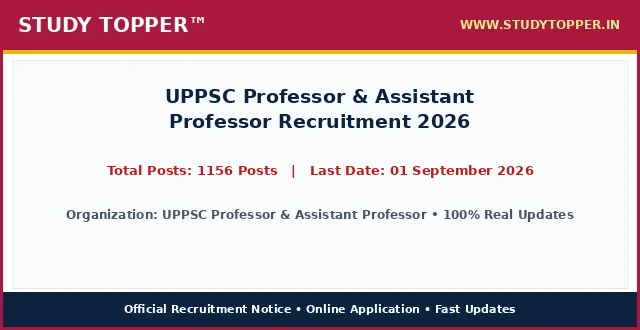
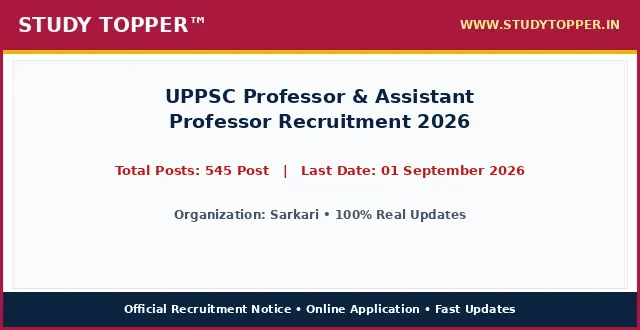
chore(lifecycle): daily auto-sort vacancies and update active dates

Changed region(s): [[0.1562, 0.4848, 0.8438, 0.5455], [0.0938, 0.6364, 0.9062, 0.6667]]

diff --git a/pages/uppsc-professor-2026.html b/pages/uppsc-professor-2026.html
@@ -987,12 +987,12 @@ ul.wp-block-latest-posts a:hover {
 <main class="site-main" id="main">
 <div class="gb-container gb-container-b39c368c">
 <h1 class="gb-headline gb-headline-e52a0102 gb-headline-text" style="font-size: 22px; font-weight: 700; color: #0000cd; text-align: left; margin: 8px 0 4px 0; line-height: 1.3; width: 100%; font-family: '-apple-system, BlinkMacSystemFont, 'Segoe UI', Roboto, 'Helvetica Neue', Arial, sans-serif', Times, serif, Hind, sans-serif;">UPPSC Professor & Assistant Professor Recruitment 2026</h1>
-<div class="gb-container gb-container-659bd175"><p style="color: #cd0808; font-weight: 700; font-size: 15px; margin: 2px 0 7px 0; text-align: left; font-family: '-apple-system, BlinkMacSystemFont, 'Segoe UI', Roboto, 'Helvetica Neue', Arial, sans-serif', Times, serif, Hind, sans-serif;">Post Date: August 21, 2026 07:48 PM</p></div>
-<p class="gb-headline gb-headline-550ae316 short_Details gb-headline-text" style="width: 100%; max-width: 100%; font-size: 16.8px; line-height: 1.55; color: #000000; text-align: justify; text-justify: inter-word; margin: 8px 0 14px 0; display: block; font-family: '-apple-system, BlinkMacSystemFont, 'Segoe UI', Roboto, 'Helvetica Neue', Arial, sans-serif', Times, serif, Hind, sans-serif;"><strong style="color: #0000cd;">UPPSC Professor & Assistant Professor</strong> has officially published the recruitment notice <strong style="color: #cd0808;">UPPSC Professor & Assistant Professor Recruitment 2026</strong> under notification number Official Advt 2026. Online applications are invited for 1156 Posts across multiple departments and cadre positions. Interested candidates possessing the requisite educational qualifications and falling between 35 Years to 55 Years can complete their online registration before the application deadline of 01 September 2026. Applicants should read the eligibility criteria, category reservation rules, and exam scheme thoroughly before submitting applications.</p>
+<div class="gb-container gb-container-659bd175"><p style="color: #cd0808; font-weight: 700; font-size: 15px; margin: 2px 0 7px 0; text-align: left; font-family: '-apple-system, BlinkMacSystemFont, 'Segoe UI', Roboto, 'Helvetica Neue', Arial, sans-serif', Times, serif, Hind, sans-serif;">Post Date: August 22, 2026 11:29 AM</p></div>
+<p class="gb-headline gb-headline-550ae316 short_Details gb-headline-text" style="width: 100%; max-width: 100%; font-size: 16.8px; line-height: 1.55; color: #000000; text-align: justify; text-justify: inter-word; margin: 8px 0 14px 0; display: block; font-family: '-apple-system, BlinkMacSystemFont, 'Segoe UI', Roboto, 'Helvetica Neue', Arial, sans-serif', Times, serif, Hind, sans-serif;"><strong style="color: #0000cd;">Sarkari</strong> has officially published the recruitment notice <strong style="color: #cd0808;">UPPSC Professor & Assistant Professor Recruitment 2026</strong> under notification number Official Advt 2026. Online applications are invited for 545 Post across multiple departments and cadre positions. Interested candidates possessing the requisite educational qualifications and falling between 18 Years to 40 Years can complete their online registration before the application deadline of 01 September 2026. Applicants should read the eligibility criteria, category reservation rules, and exam scheme thoroughly before submitting applications.</p>
 <div class="gb-container gb-container-9849916c"><div class="social-buttons-compact" style="display: flex; justify-content: flex-start; align-items: center; gap: 10px; margin: 10px 0 16px 0; width: 100%;"><a class="social-btn-compact wa" href="https://whatsapp.com/channel/0029Va9xyz" rel="noopener" style="background-color: #00d084; color: #ffffff; padding: 10px 18px; border-radius: 4px; text-decoration: none; font-weight: bold; font-size: 15.5px; display: inline-flex; align-items: center; justify-content: center; height: auto;" target="_blank">WhatsApp</a><a class="social-btn-compact tg" href="https://t.me/studytopperofficial" rel="noopener" style="background-color: #0088cc; color: #ffffff; padding: 10px 18px; border-radius: 4px; text-decoration: none; font-weight: bold; font-size: 15.5px; display: inline-flex; align-items: center; justify-content: center; height: auto;" target="_blank">Telegram</a></div></div>
 <div class="gb-container gb-container-f58e6ca1" style="border: 2px solid #5b032f; border-radius: 4px; overflow: hidden; margin: 15px 0 20px 0; background-color: #ffffff; width: 100%; box-sizing: border-box;">
 <h2 class="gb-headline gb-headline-2ca5a791 gb-headline-text" style="font-size: 16px; font-weight: 700; text-align: center; color: #ef0303; line-height: 1.3; padding: 6px 4px; margin: 0; background: #ffffff; font-family: '-apple-system, BlinkMacSystemFont, 'Segoe UI', Roboto, 'Helvetica Neue', Arial, sans-serif', Times, serif, Hind, sans-serif;">UPPSC Professor & Assistant Professor Recruitment 2026 &ndash; Latest Details &amp; Updates</h2>
-<h3 class="gb-headline gb-headline-7d5f86e8 gb-headline-text" style="font-size: 16px; font-weight: 600; text-align: center; color: #009703; line-height: 1.25; margin: 0; padding: 2px 4px 6px 4px; background: #ffffff; font-family: '-apple-system, BlinkMacSystemFont, 'Segoe UI', Roboto, 'Helvetica Neue', Arial, sans-serif', Times, serif, Hind, sans-serif;">UPPSC Professor & Assistant Professor : Details &amp; Summary</h3>
+<h3 class="gb-headline gb-headline-7d5f86e8 gb-headline-text" style="font-size: 16px; font-weight: 600; text-align: center; color: #009703; line-height: 1.25; margin: 0; padding: 2px 4px 6px 4px; background: #ffffff; font-family: '-apple-system, BlinkMacSystemFont, 'Segoe UI', Roboto, 'Helvetica Neue', Arial, sans-serif', Times, serif, Hind, sans-serif;">Sarkari : Details &amp; Summary</h3>
 <p class="gb-headline gb-headline-79adf169 gb-headline-text" style="margin: 0 0 6px 0; font-family: '-apple-system, BlinkMacSystemFont, 'Segoe UI', Roboto, 'Helvetica Neue', Arial, sans-serif', Times, serif, Hind, sans-serif; text-align: center; font-size: 18px; font-weight: 700;"><a href="/" style="color: #0000ff; text-decoration: underline;">StudyTopper.in</a></p>
 
 <style id="st-post-boxes-responsive-css">
@@ -1025,7 +1025,7 @@ ul.wp-block-latest-posts a:hover {
     <div style="background-color: #5b032f; color: #ffffff; padding: 8px 10px; font-size: 20px; font-weight: 700; text-align: center; font-family: '-apple-system, BlinkMacSystemFont, 'Segoe UI', Roboto, 'Helvetica Neue', Arial, sans-serif', Times, serif, Hind, sans-serif;">Important Dates</div>
     <div style="padding: 12px 14px; background-color: #ffffff;">
       <ul style="padding-left: 20px; margin: 0; list-style-type: disc; text-align: left; font-size: 14pt; line-height: 1.6; font-family: '-apple-system, BlinkMacSystemFont, 'Segoe UI', Roboto, 'Helvetica Neue', Arial, sans-serif', Times, serif, Hind, sans-serif;">
-        <li><span style="font-size: 14pt;">Online Apply Start Date : <strong>18 August 2026</strong></span></li><li><span style="font-size: 14pt;">Online Apply Last Date : <span style="color: #ff0000;"><strong>01 September 2026</strong></span></span></li><li><span style="font-size: 14pt;">Last Date For Fee Payment : <span style="color: #ff0000;"><strong>01 September 2026</strong></span></span></li><li><span style="font-size: 14pt;">Correction Last Date : <span style="color: #ff0000;"><strong>08 September 2026</strong></span></span></li><li><span style="font-size: 14pt;">Pre Exam Date : <strong>Notify Later</strong></span></li><li><span style="font-size: 14pt;">Admit Card : <strong>Before Exam</strong></span></li><li><span style="font-size: 14pt;">Result Date : <strong>Will be Updated Here Soon</strong></span></li>
+        
       </ul>
     </div>
   </div>
@@ -1034,7 +1034,7 @@ ul.wp-block-latest-posts a:hover {
     <div style="background-color: #5b032f; color: #ffffff; padding: 8px 10px; font-size: 20px; font-weight: 700; text-align: center; font-family: '-apple-system, BlinkMacSystemFont, 'Segoe UI', Roboto, 'Helvetica Neue', Arial, sans-serif', Times, serif, Hind, sans-serif;">Application Fee</div>
     <div style="padding: 12px 14px; background-color: #ffffff;">
       <ul style="padding-left: 20px; margin: 0; list-style-type: disc; text-align: left; font-size: 14pt; line-height: 1.6; font-family: '-apple-system, BlinkMacSystemFont, 'Segoe UI', Roboto, 'Helvetica Neue', Arial, sans-serif', Times, serif, Hind, sans-serif;">
-        <li><span style="font-size: 14pt;">For General / OBC / EWS : <strong>₹ 105/-</strong></span></li><li><span style="font-size: 14pt;">For SC / ST : <strong>₹ 65/-</strong></span></li><li><span style="font-size: 14pt;">For PH : <strong>₹ 25/-</strong></span></li><li><span style="font-size: 14pt;">Payment Mode (Online) : <strong>You can make the payment using the following methods: Debit Card Credit Card Internet Banking IMPS Cash Card / Mobile Wallet</strong></span></li><li><span style="font-size: 14pt;">Candidates must have a Master’s Degree (MD/MS/DNB) in the relevant medical specialty. Post : <strong>wise experience requirements are given in the official notification.</strong></span></li>
+        <li><span style="font-size: 14pt;">Bihar Police BPSSC Sub Inspector SI Prohibition Result 2026 Advt. No. : <strong>03/2026</strong></span></li><li><span style="font-size: 14pt;">UP Scholarship Online Form 2026 : <strong>2027</strong></span></li>
       </ul>
       <div style="margin-top: 10px; font-size: 14pt; line-height: 1.5; color: #000000; border-top: 1px dashed #ccc; padding-top: 8px; font-family: '-apple-system, BlinkMacSystemFont, 'Segoe UI', Roboto, 'Helvetica Neue', Arial, sans-serif', Times, serif, Hind, sans-serif;">
         <strong>Mode of Payment / Access:</strong> Online via Net Banking, Debit Card, Credit Card, UPI or Free Candidate Portal.
@@ -1047,10 +1047,10 @@ ul.wp-block-latest-posts a:hover {
 <div class="st-grid-row" style="display: flex; flex-wrap: wrap; width: 100%; border-top: 2px solid #5b032f; margin: 0; padding: 0; box-sizing: border-box;">
   <!-- Left Col: Age Limits -->
   <div class="st-col-half st-col-border-right" style="box-sizing: border-box; vertical-align: top;">
-    <div style="background-color: #046132; color: #ffffff; padding: 8px 10px; font-size: 17px; font-weight: 700; text-align: center; font-family: '-apple-system, BlinkMacSystemFont, 'Segoe UI', Roboto, 'Helvetica Neue', Arial, sans-serif', Times, serif, Hind, sans-serif;">UPPSC Professor & Assistant Professor : Age Limits As On 01 August 2026</div>
+    <div style="background-color: #046132; color: #ffffff; padding: 8px 10px; font-size: 17px; font-weight: 700; text-align: center; font-family: '-apple-system, BlinkMacSystemFont, 'Segoe UI', Roboto, 'Helvetica Neue', Arial, sans-serif', Times, serif, Hind, sans-serif;">Sarkari : Age Limits As On 01 August 2026</div>
     <div style="padding: 12px 14px; background-color: #ffffff;">
       <ul style="padding-left: 20px; margin: 0; list-style-type: disc; text-align: left; font-size: 14pt; line-height: 1.6; font-family: '-apple-system, BlinkMacSystemFont, 'Segoe UI', Roboto, 'Helvetica Neue', Arial, sans-serif', Times, serif, Hind, sans-serif;">
-        <li><span style="font-size: 14pt;">Minimum Age : <strong>35 Years</strong></span></li><li><span style="font-size: 14pt;">Maximum Age : <strong>55 Years</strong></span></li>
+        
       </ul>
     </div>
   </div>
@@ -1058,7 +1058,7 @@ ul.wp-block-latest-posts a:hover {
   <div class="st-col-half" style="box-sizing: border-box; vertical-align: top;">
     <div style="background-color: #f53c00; color: #ffffff; padding: 8px 10px; font-size: 20px; font-weight: 700; text-align: center; font-family: '-apple-system, BlinkMacSystemFont, 'Segoe UI', Roboto, 'Helvetica Neue', Arial, sans-serif', Times, serif, Hind, sans-serif;">Total Post</div>
     <div style="padding: 24px 10px; background-color: #ffffff; text-align: center;">
-      <span style="font-size: 28px; font-weight: 800; color: #000000; font-family: '-apple-system, BlinkMacSystemFont, 'Segoe UI', Roboto, 'Helvetica Neue', Arial, sans-serif', Times, serif, Hind, sans-serif;">1156 Posts</span>
+      <span style="font-size: 28px; font-weight: 800; color: #000000; font-family: '-apple-system, BlinkMacSystemFont, 'Segoe UI', Roboto, 'Helvetica Neue', Arial, sans-serif', Times, serif, Hind, sans-serif;">545 Post</span>
     </div>
   </div>
 </div>
@@ -1073,13 +1073,13 @@ ul.wp-block-latest-posts a:hover {
 <table style="border-collapse: collapse; width: 100%; height: 150px;">
 <tbody>
 <tr style="height: 25px;">
-<td colspan="2" style="width: 50%; text-align: center; height: 25px;"><span style="background-color: #000080; color: #ffffff; font-size: 14pt;"><strong> UPPSC Professor & Assistant Professor : Category Wise Vacancy Details </strong></span></td>
+<td colspan="2" style="width: 50%; text-align: center; height: 25px;"><span style="background-color: #000080; color: #ffffff; font-size: 14pt;"><strong> Sarkari : Category Wise Vacancy Details </strong></span></td>
 </tr>
 <tr style="height: 25px;">
 <td style="width: 50%; height: 25px; text-align: center;"><span style="font-size: 14pt;"><strong>Category / Particulars</strong></span></td>
 <td style="width: 50%; height: 25px; text-align: center;"><span style="font-size: 14pt;"><strong>Count / Status</strong></span></td>
 </tr>
-<tr><td style="text-align: center;">Assistant Professor</td><td style="text-align: center; font-weight: normal; color: inherit;">1112</td></tr>
+
 </tbody>
 </table>
 <p>&nbsp;</p>
@@ -1090,11 +1090,7 @@ ul.wp-block-latest-posts a:hover {
 <th style="background-color: #f53c00; color: #ffffff; padding: 6px 10px; text-align: center; border: 1px solid #d35400; font-size: 15px; font-weight: 700; font-family: '-apple-system, BlinkMacSystemFont, 'Segoe UI', Roboto, 'Helvetica Neue', Arial, sans-serif', Times, serif, Hind, sans-serif;">Total Posts</th>
 <th style="background-color: #f53c00; color: #ffffff; padding: 6px 10px; text-align: center; border: 1px solid #d35400; font-size: 15px; font-weight: 700; font-family: '-apple-system, BlinkMacSystemFont, 'Segoe UI', Roboto, 'Helvetica Neue', Arial, sans-serif', Times, serif, Hind, sans-serif;">Eligibility Criteria</th>
 </tr>
-<tr>
-<td style="padding: 8px; border: 1px solid #ddd; font-weight: bold;">Professor & Assistant Professor</td>
-<td style="padding: 8px; border: 1px solid #ddd; text-align: center; font-weight: bold;">1156 vacancies</td>
-<td style="padding: 8px; border: 1px solid #ddd;">Candidates must have a Master’s Degree (MD/MS/DNB) in the relevant medical specialty. Post-wise experience requirements are given in the official notification.</td>
-</tr>
+
 </tbody>
 </table>
 <p>&nbsp;</p>
@@ -1104,10 +1100,10 @@ ul.wp-block-latest-posts a:hover {
 <table style="border-collapse: collapse; width: 100%;">
 <tbody>
 <tr>
-<td style="width: 100%; text-align: center;"><span style="background-color: #000080; color: #ffffff; font-size: 14pt; font-weight: bold; display: block; padding: 6px;"> How to Fill UPPSC Professor & Assistant Professor Online Application Form </span></td>
+<td style="width: 100%; text-align: center;"><span style="background-color: #000080; color: #ffffff; font-size: 14pt; font-weight: bold; display: block; padding: 6px;"> How to Fill Sarkari Online Application Form </span></td>
 </tr>
 <tr>
-<td style="width: 100%;"><ol style="margin:0; padding-left:18px; text-align: left !important; list-style-position: outside !important"><li style="margin-bottom:6px; text-align: left !important;">Visit official portal for UPPSC Professor & Assistant Professor Recruitment 2026 via direct application link in important links section below.</li><li style="margin-bottom:6px; text-align: left !important;">Read official recruitment notification carefully to verify category eligibility criteria and age limits.</li><li style="margin-bottom:6px; text-align: left !important;">Complete online candidate registration with valid mobile number and email ID.</li><li style="margin-bottom:6px; text-align: left !important;">Fill educational qualifications, identity details, and permanent address accurately.</li><li style="margin-bottom:6px; text-align: left !important;">Upload scanned photograph and signature in required dimensions.</li><li style="margin-bottom:6px; text-align: left !important;">Resize candidate photograph and signature accurately using StudyTopper Tools resizer at indtool.in.</li><li style="margin-bottom:6px; text-align: left !important;">Pay applicable category application fee online using Debit Card, Credit Card, Net Banking, or UPI.</li><li style="margin-bottom:6px; text-align: left !important;">Review full application form preview thoroughly and submit before 01 September 2026.</li><li style="margin-bottom:6px; text-align: left !important;">Download and print submitted application confirmation page for future reference.</li></ol></td>
+<td style="width: 100%;"><ol style="margin:0; padding-left:18px; text-align: left !important; list-style-position: outside !important"><li style="margin-bottom:6px; text-align: left !important;">Resize candidate photograph and signature accurately using the <a href="https://indtool.in" rel="noopener" target="_blank"><strong>StudyTopper Tools</strong></a> image resizer at indtool.in.</li></ol></td>
 </tr>
 </tbody>
 </table>
@@ -1115,12 +1111,12 @@ ul.wp-block-latest-posts a:hover {
 <table style="border-collapse: collapse; width: 100%;">
 <tbody>
 <tr>
-<td style="width: 100%; text-align: center;"><span style="background-color: #000080; color: #ffffff; font-size: 14pt;"><strong><span style="color: #ffffff;"> UPPSC Professor & Assistant Professor Recruitment 2026 : Mode Of Selection </span></strong></span></td>
+<td style="width: 100%; text-align: center;"><span style="background-color: #000080; color: #ffffff; font-size: 14pt;"><strong><span style="color: #ffffff;"> Sarkari Recruitment 2026 : Mode Of Selection </span></strong></span></td>
 </tr>
 <tr>
 <td style="width: 100%;">
 <ul class="wp-block-list" style="text-align: left !important; list-style-position: outside !important">
-<li style="text-align: left !important;"><span style="font-size: 14pt;"><strong>Computer Based Examination (CBE) / Evaluation</strong></span></li><li style="text-align: left !important;"><span style="font-size: 14pt;"><strong>Document Verification</strong></span></li><li style="text-align: left !important;"><span style="font-size: 14pt;"><strong>Final Merit Allotment</strong></span></li>
+<li style="text-align: left !important;"><span style="font-size: 14pt;"><strong>Computer Based Examination (CBE) / Written Exam</strong></span></li><li style="text-align: left !important;"><span style="font-size: 14pt;"><strong>Document Verification</strong></span></li><li style="text-align: left !important;"><span style="font-size: 14pt;"><strong>Medical Examination</strong></span></li>
 </ul>
 </td>
 </tr>
@@ -1155,10 +1151,10 @@ ul.wp-block-latest-posts a:hover {
 
 <tr style="border-bottom: 1px solid #000000; background-color: #fff37a;">
 <td style="width: 50%; padding: 14px 16px; border-right: 1px solid #000000; text-align: center;">
-<span style="font-size: 19px; font-weight: 800; color: #000000; font-family: '-apple-system, BlinkMacSystemFont, 'Segoe UI', Roboto, 'Helvetica Neue', Arial, sans-serif', Times, serif, Hind, sans-serif;">Apply Online</span>
+<span style="font-size: 19px; font-weight: 800; color: #000000; font-family: '-apple-system, BlinkMacSystemFont, 'Segoe UI', Roboto, 'Helvetica Neue', Arial, sans-serif', Times, serif, Hind, sans-serif;">Apply Online Link</span>
 </td>
 <td style="width: 50%; padding: 14px 16px; text-align: center;">
-<span style="font-size: 20px; font-weight: 800; font-family: '-apple-system, BlinkMacSystemFont, 'Segoe UI', Roboto, 'Helvetica Neue', Arial, sans-serif', Times, serif, Hind, sans-serif;"><a href="https://uppsc.up.nic.in/CandidatePages/Notifications.aspx" aria-label="Click Here for Apply Online - UPPSC Professor & Assistant Professor Recruitment 2026" rel="noopener noreferrer" style="color: #0000ef; font-weight: 800; text-decoration: none;" target="_blank">Click Here</a></span>
+<span style="font-size: 20px; font-weight: 800; font-family: '-apple-system, BlinkMacSystemFont, 'Segoe UI', Roboto, 'Helvetica Neue', Arial, sans-serif', Times, serif, Hind, sans-serif;"><a href="https://www.sarkariresult.com/2026/mpesb-group2-subgroup-4-aug26/" aria-label="Click Here for Apply Online Link - UPPSC Professor & Assistant Professor Recruitment 2026" rel="noopener noreferrer" style="color: #0000ef; font-weight: 800; text-decoration: none;" target="_blank">Click Here</a></span>
 </td>
 </tr>
 <tr style="border-bottom: 1px solid #000000; background-color: #fff37a;">
@@ -1166,31 +1162,31 @@ ul.wp-block-latest-posts a:hover {
 <span style="font-size: 19px; font-weight: 800; color: #000000; font-family: '-apple-system, BlinkMacSystemFont, 'Segoe UI', Roboto, 'Helvetica Neue', Arial, sans-serif', Times, serif, Hind, sans-serif;">Check Official Notification</span>
 </td>
 <td style="width: 50%; padding: 14px 16px; text-align: center;">
-<span style="font-size: 20px; font-weight: 800; font-family: '-apple-system, BlinkMacSystemFont, 'Segoe UI', Roboto, 'Helvetica Neue', Arial, sans-serif', Times, serif, Hind, sans-serif;"><a href="https://uppsc.up.nic.in/OuterPages/View_Enclosure.aspx?ID=559&flag=H&FID=936" aria-label="Click Here for Check Official Notification - UPPSC Professor & Assistant Professor Recruitment 2026" rel="noopener noreferrer" style="color: #0000ef; font-weight: 800; text-decoration: none;" target="_blank">Click Here</a></span>
+<span style="font-size: 20px; font-weight: 800; font-family: '-apple-system, BlinkMacSystemFont, 'Segoe UI', Roboto, 'Helvetica Neue', Arial, sans-serif', Times, serif, Hind, sans-serif;"><a href="" aria-label="Click Here for Check Official Notification - UPPSC Professor & Assistant Professor Recruitment 2026" rel="noopener noreferrer" style="color: #0000ef; font-weight: 800; text-decoration: none;" target="_blank">Click Here</a></span>
 </td>
 </tr>
 <tr style="border-bottom: 1px solid #000000; background-color: #fff37a;">
 <td style="width: 50%; padding: 14px 16px; border-right: 1px solid #000000; text-align: center;">
-<span style="font-size: 19px; font-weight: 800; color: #000000; font-family: '-apple-system, BlinkMacSystemFont, 'Segoe UI', Roboto, 'Helvetica Neue', Arial, sans-serif', Times, serif, Hind, sans-serif;">Check Official Notification</span>
+<span style="font-size: 19px; font-weight: 800; color: #000000; font-family: '-apple-system, BlinkMacSystemFont, 'Segoe UI', Roboto, 'Helvetica Neue', Arial, sans-serif', Times, serif, Hind, sans-serif;">Photo / Sign Resizer Tool</span>
 </td>
 <td style="width: 50%; padding: 14px 16px; text-align: center;">
-<span style="font-size: 20px; font-weight: 800; font-family: '-apple-system, BlinkMacSystemFont, 'Segoe UI', Roboto, 'Helvetica Neue', Arial, sans-serif', Times, serif, Hind, sans-serif;"><a href="https://uppsc.up.nic.in/OuterPages/View_Enclosure.aspx?ID=559&flag=E&FID=937" aria-label="Click Here for Check Official Notification - UPPSC Professor & Assistant Professor Recruitment 2026" rel="noopener noreferrer" style="color: #0000ef; font-weight: 800; text-decoration: none;" target="_blank">Click Here</a></span>
+<span style="font-size: 20px; font-weight: 800; font-family: '-apple-system, BlinkMacSystemFont, 'Segoe UI', Roboto, 'Helvetica Neue', Arial, sans-serif', Times, serif, Hind, sans-serif;"><a href="https://indtool.in" aria-label="Click Here for Photo / Sign Resizer Tool - UPPSC Professor & Assistant Professor Recruitment 2026" rel="noopener noreferrer" style="color: #0000ef; font-weight: 800; text-decoration: none;" target="_blank">Click Here</a></span>
 </td>
 </tr>
 <tr style="border-bottom: 1px solid #000000; background-color: #fff37a;">
-<td style="width: 50%; padding: 14px 16px; border-right: 1px solid #000000; text-align: center;">
-<span style="font-size: 19px; font-weight: 800; color: #000000; font-family: '-apple-system, BlinkMacSystemFont, 'Segoe UI', Roboto, 'Helvetica Neue', Arial, sans-serif', Times, serif, Hind, sans-serif;">UPPSC Official Website</span>
-</td>
-<td style="width: 50%; padding: 14px 16px; text-align: center;">
-<span style="font-size: 20px; font-weight: 800; font-family: '-apple-system, BlinkMacSystemFont, 'Segoe UI', Roboto, 'Helvetica Neue', Arial, sans-serif', Times, serif, Hind, sans-serif;"><a href="https://uppsc.up.nic.in/" aria-label="Click Here for UPPSC Official Website - UPPSC Professor & Assistant Professor Recruitment 2026" rel="noopener noreferrer" style="color: #0000ef; font-weight: 800; text-decoration: none;" target="_blank">Click Here</a></span>
-</td>
-</tr>
-<tr style=" background-color: #fff37a;">
 <td style="width: 50%; padding: 14px 16px; border-right: 1px solid #000000; text-align: center;">
 <span style="font-size: 19px; font-weight: 800; color: #000000; font-family: '-apple-system, BlinkMacSystemFont, 'Segoe UI', Roboto, 'Helvetica Neue', Arial, sans-serif', Times, serif, Hind, sans-serif;">Check Sarkari Result</span>
 </td>
 <td style="width: 50%; padding: 14px 16px; text-align: center;">
 <span style="font-size: 20px; font-weight: 800; font-family: '-apple-system, BlinkMacSystemFont, 'Segoe UI', Roboto, 'Helvetica Neue', Arial, sans-serif', Times, serif, Hind, sans-serif;"><a href="/" aria-label="Click Here for Check Sarkari Result - UPPSC Professor & Assistant Professor Recruitment 2026" rel="noopener noreferrer" style="color: #0000ef; font-weight: 800; text-decoration: none;" >Click Here</a></span>
+</td>
+</tr>
+<tr style=" background-color: #fff37a;">
+<td style="width: 50%; padding: 14px 16px; border-right: 1px solid #000000; text-align: center;">
+<span style="font-size: 19px; font-weight: 800; color: #000000; font-family: '-apple-system, BlinkMacSystemFont, 'Segoe UI', Roboto, 'Helvetica Neue', Arial, sans-serif', Times, serif, Hind, sans-serif;">Sarkari Website</span>
+</td>
+<td style="width: 50%; padding: 14px 16px; text-align: center;">
+<span style="font-size: 20px; font-weight: 800; font-family: '-apple-system, BlinkMacSystemFont, 'Segoe UI', Roboto, 'Helvetica Neue', Arial, sans-serif', Times, serif, Hind, sans-serif;"><a href="" aria-label="Click Here for Sarkari Website - UPPSC Professor & Assistant Professor Recruitment 2026" rel="noopener noreferrer" style="color: #0000ef; font-weight: 800; text-decoration: none;" target="_blank">Click Here</a></span>
 </td>
 </tr>
 </tbody>
@@ -1204,9 +1200,9 @@ ul.wp-block-latest-posts a:hover {
   <div style="font-size: 14.5px; line-height: 1.65; color: #222222;">
     <p style="margin: 0 0 4px 0;"><strong style="color: #000080;">Q1. What is the last date to apply for UPPSC Professor & Assistant Professor Recruitment 2026?</strong></p>
 <p style="margin: 0 0 16px 0; color: #333333; line-height: 1.6;">Ans. The last date for online submission of application is 01 September 2026.</p><p style="margin: 0 0 4px 0;"><strong style="color: #000080;">Q2. What is the age limit for UPPSC Professor & Assistant Professor Recruitment 2026?</strong></p>
-<p style="margin: 0 0 16px 0; color: #333333; line-height: 1.6;">Ans. Candidate age should generally be between 35 Years and 55 Years as on 01 August 2026. Age relaxation is applicable per rules.</p><p style="margin: 0 0 4px 0;"><strong style="color: #000080;">Q3. What is the application fee for UPPSC Professor & Assistant Professor Recruitment 2026?</strong></p>
+<p style="margin: 0 0 16px 0; color: #333333; line-height: 1.6;">Ans. Candidate age should generally be between 18 Years and 40 Years as on 01 August 2026. Age relaxation is applicable per rules.</p><p style="margin: 0 0 4px 0;"><strong style="color: #000080;">Q3. What is the application fee for UPPSC Professor & Assistant Professor Recruitment 2026?</strong></p>
 <p style="margin: 0 0 16px 0; color: #333333; line-height: 1.6;">Ans. Application fee varies by category (e.g., General/OBC: Rs. 100/-, SC/ST/PwD: Exempted).</p><p style="margin: 0 0 4px 0;"><strong style="color: #000080;">Q4. How many total posts are available in UPPSC Professor & Assistant Professor Recruitment 2026?</strong></p>
-<p style="margin: 0 0 16px 0; color: #333333; line-height: 1.6;">Ans. A total of 1156 Posts have been officially announced for this recruitment drive.</p><p style="margin: 0 0 4px 0;"><strong style="color: #000080;">Q5. How can I apply online for UPPSC Professor & Assistant Professor Recruitment 2026?</strong></p>
+<p style="margin: 0 0 16px 0; color: #333333; line-height: 1.6;">Ans. A total of 545 Post have been officially announced for this recruitment drive.</p><p style="margin: 0 0 4px 0;"><strong style="color: #000080;">Q5. How can I apply online for UPPSC Professor & Assistant Professor Recruitment 2026?</strong></p>
 <p style="margin: 0 0 0 0; color: #333333; line-height: 1.6;">Ans. Eligible candidates can click the 'Apply Online' link in the Important Links table, register, fill details, resize photo/signature via indtool.in, and submit before 01 September 2026.</p>
   </div>
 </div>

diff --git a/index.html b/index.html
@@ -1615,7 +1615,7 @@ ul.wp-block-latest-posts a:hover {
 </div></div></div>
 <div class="gb-grid-column gb-grid-column-c7488d9a"><div class="gb-container gb-container-c7488d9a"><div class="gb-inside-container">
 <p class="gb-headline gb-headline-5badebdf gb-headline-text" style="background-color:#ab183d !important; color:#ffffff !important; text-align:center; font-weight:700; padding:6px 0;">Latest Jobs</p>
-<ul class="wp-block-latest-posts__list 6colm_box wp-block-latest-posts"><li><a class="wp-block-latest-posts__post-title" href="/mpesb-group-2-sub-group-4-patwari-2026/">MPESB Group-2 Sub Group-4 Patwari Recruitment 2026 - <span class="agy-blinking-badge agy-urgent-blink">1 Days Left!</span></a></li><li><a class="wp-block-latest-posts__post-title" href="/rrvunl-je-junior-assistant-2026/">RRVUNL JE, Junior Assistant Recruitment 2026 - <span class="agy-blinking-badge agy-urgent-blink">3 Days Left!</span></a></li><li><a class="wp-block-latest-posts__post-title" href="/rvunl-june26/">Rajasthan RVUNL for JE, Junior Accountant &amp; Junior Assistant/ Commercial Assistant-II Common Recruitment 2026 Apply Online for 2005 Post - <span class="agy-blinking-badge agy-urgent-blink">3 Days Left!</span></a></li><li><a class="wp-block-latest-posts__post-title" href="/sbi-clerk-backlog-aug26/">State Bank of India SBI Junior Associates Clerk Recruitment 2026 : Apply Online for 1538 Backlog Post</a></li><li><a class="wp-block-latest-posts__post-title" href="/patna-high-court-july26/">Patan High Court Judicature Ex-Cadre Assistant Group C Recruitment 2026 Apply Online for 68 Post</a></li><li><a class="wp-block-latest-posts__post-title" href="/sbi-junior-associates-clerk-2026/">SBI Junior Associates Clerk Recruitment 2026</a></li><li><a class="wp-block-latest-posts__post-title" href="/bseb-stet-august26/">Bihar State Eligibility Test BSEB STET 2026 Apply Online</a></li><li><a class="wp-block-latest-posts__post-title" href="/upsssc-pet-exam-jun26/">UP UPSSSC Preliminary Examination Test PET 2026 Apply Online Form 2026</a></li><li><a class="wp-block-latest-posts__post-title" href="/uppsc-professor-2026/">UPPSC Professor &amp; Assistant Professor Recruitment 2026</a></li><li><a class="wp-block-latest-posts__post-title" href="/mpesb-group-3-sub-engineer-2026/">MPESB Group 3 Sub Engineer &amp; Other Post Recruitment 2026</a></li><li><a class="wp-block-latest-posts__post-title" href="/upsssc-pet-2026/">UPSSSC PET Online Form 2026</a></li><li><a class="wp-block-latest-posts__post-title" href="/jssc-jilcce-inter-level-july26/">JSSC Jharkhand JILCCE Inter Level Recruitment 2026 Apply Online for 326 Post</a></li></ul>
+<ul class="wp-block-latest-posts__list 6colm_box wp-block-latest-posts"><li><a class="wp-block-latest-posts__post-title" href="/mpesb-group-2-sub-group-4-patwari-2026/">MPESB Group-2 Sub Group-4 Patwari Recruitment 2026 - <span class="agy-blinking-badge agy-urgent-blink">1 Days Left!</span></a></li><li><a class="wp-block-latest-posts__post-title" href="/rrvunl-je-junior-assistant-2026/">RRVUNL JE, Junior Assistant Recruitment 2026 - <span class="agy-blinking-badge agy-urgent-blink">3 Days Left!</span></a></li><li><a class="wp-block-latest-posts__post-title" href="/rvunl-june26/">Rajasthan RVUNL for JE, Junior Accountant &amp; Junior Assistant/ Commercial Assistant-II Common Recruitment 2026 Apply Online for 2005 Post - <span class="agy-blinking-badge agy-urgent-blink">3 Days Left!</span></a></li><li><a class="wp-block-latest-posts__post-title" href="/sbi-clerk-backlog-aug26/">State Bank of India SBI Junior Associates Clerk Recruitment 2026 : Apply Online for 1538 Backlog Post</a></li><li><a class="wp-block-latest-posts__post-title" href="/patna-high-court-july26/">Patan High Court Judicature Ex-Cadre Assistant Group C Recruitment 2026 Apply Online for 68 Post</a></li><li><a class="wp-block-latest-posts__post-title" href="/sbi-junior-associates-clerk-2026/">SBI Junior Associates Clerk Recruitment 2026</a></li><li><a class="wp-block-latest-posts__post-title" href="/bseb-stet-august26/">Bihar State Eligibility Test BSEB STET 2026 Apply Online</a></li><li><a class="wp-block-latest-posts__post-title" href="/uppsc-professor-2026/">UPPSC Professor &amp; Assistant Professor Recruitment 2026</a></li><li><a class="wp-block-latest-posts__post-title" href="/upsssc-pet-exam-jun26/">UP UPSSSC Preliminary Examination Test PET 2026 Apply Online Form 2026</a></li><li><a class="wp-block-latest-posts__post-title" href="/mpesb-group-3-sub-engineer-2026/">MPESB Group 3 Sub Engineer &amp; Other Post Recruitment 2026</a></li><li><a class="wp-block-latest-posts__post-title" href="/upsssc-pet-2026/">UPSSSC PET Online Form 2026</a></li><li><a class="wp-block-latest-posts__post-title" href="/jssc-jilcce-inter-level-july26/">JSSC Jharkhand JILCCE Inter Level Recruitment 2026 Apply Online for 326 Post</a></li></ul>
 <div class="wp-block-buttons is-content-justification-right is-layout-flex wp-container-core-buttons-is-layout-89b4c9e9 wp-block-buttons-is-layout-flex">
 <div class="wp-block-button"><a class="wp-block-button__link has-base-color has-accent-2-background-color has-text-color has-background has-link-color wp-element-button" href="/latest-jobs/" rel="noreferrer noopener" target="_blank"><strong>View More</strong></a></div>
 </div>

diff --git a/pages/index.html b/pages/index.html
@@ -1615,7 +1615,7 @@ ul.wp-block-latest-posts a:hover {
 </div></div></div>
 <div class="gb-grid-column gb-grid-column-c7488d9a"><div class="gb-container gb-container-c7488d9a"><div class="gb-inside-container">
 <p class="gb-headline gb-headline-5badebdf gb-headline-text" style="background-color:#ab183d !important; color:#ffffff !important; text-align:center; font-weight:700; padding:6px 0;">Latest Jobs</p>
-<ul class="wp-block-latest-posts__list 6colm_box wp-block-latest-posts"><li><a class="wp-block-latest-posts__post-title" href="/mpesb-group-2-sub-group-4-patwari-2026/">MPESB Group-2 Sub Group-4 Patwari Recruitment 2026 - <span class="agy-blinking-badge agy-urgent-blink">1 Days Left!</span></a></li><li><a class="wp-block-latest-posts__post-title" href="/rrvunl-je-junior-assistant-2026/">RRVUNL JE, Junior Assistant Recruitment 2026 - <span class="agy-blinking-badge agy-urgent-blink">3 Days Left!</span></a></li><li><a class="wp-block-latest-posts__post-title" href="/rvunl-june26/">Rajasthan RVUNL for JE, Junior Accountant &amp; Junior Assistant/ Commercial Assistant-II Common Recruitment 2026 Apply Online for 2005 Post - <span class="agy-blinking-badge agy-urgent-blink">3 Days Left!</span></a></li><li><a class="wp-block-latest-posts__post-title" href="/sbi-clerk-backlog-aug26/">State Bank of India SBI Junior Associates Clerk Recruitment 2026 : Apply Online for 1538 Backlog Post</a></li><li><a class="wp-block-latest-posts__post-title" href="/patna-high-court-july26/">Patan High Court Judicature Ex-Cadre Assistant Group C Recruitment 2026 Apply Online for 68 Post</a></li><li><a class="wp-block-latest-posts__post-title" href="/sbi-junior-associates-clerk-2026/">SBI Junior Associates Clerk Recruitment 2026</a></li><li><a class="wp-block-latest-posts__post-title" href="/bseb-stet-august26/">Bihar State Eligibility Test BSEB STET 2026 Apply Online</a></li><li><a class="wp-block-latest-posts__post-title" href="/upsssc-pet-exam-jun26/">UP UPSSSC Preliminary Examination Test PET 2026 Apply Online Form 2026</a></li><li><a class="wp-block-latest-posts__post-title" href="/uppsc-professor-2026/">UPPSC Professor &amp; Assistant Professor Recruitment 2026</a></li><li><a class="wp-block-latest-posts__post-title" href="/mpesb-group-3-sub-engineer-2026/">MPESB Group 3 Sub Engineer &amp; Other Post Recruitment 2026</a></li><li><a class="wp-block-latest-posts__post-title" href="/upsssc-pet-2026/">UPSSSC PET Online Form 2026</a></li><li><a class="wp-block-latest-posts__post-title" href="/jssc-jilcce-inter-level-july26/">JSSC Jharkhand JILCCE Inter Level Recruitment 2026 Apply Online for 326 Post</a></li></ul>
+<ul class="wp-block-latest-posts__list 6colm_box wp-block-latest-posts"><li><a class="wp-block-latest-posts__post-title" href="/mpesb-group-2-sub-group-4-patwari-2026/">MPESB Group-2 Sub Group-4 Patwari Recruitment 2026 - <span class="agy-blinking-badge agy-urgent-blink">1 Days Left!</span></a></li><li><a class="wp-block-latest-posts__post-title" href="/rrvunl-je-junior-assistant-2026/">RRVUNL JE, Junior Assistant Recruitment 2026 - <span class="agy-blinking-badge agy-urgent-blink">3 Days Left!</span></a></li><li><a class="wp-block-latest-posts__post-title" href="/rvunl-june26/">Rajasthan RVUNL for JE, Junior Accountant &amp; Junior Assistant/ Commercial Assistant-II Common Recruitment 2026 Apply Online for 2005 Post - <span class="agy-blinking-badge agy-urgent-blink">3 Days Left!</span></a></li><li><a class="wp-block-latest-posts__post-title" href="/sbi-clerk-backlog-aug26/">State Bank of India SBI Junior Associates Clerk Recruitment 2026 : Apply Online for 1538 Backlog Post</a></li><li><a class="wp-block-latest-posts__post-title" href="/patna-high-court-july26/">Patan High Court Judicature Ex-Cadre Assistant Group C Recruitment 2026 Apply Online for 68 Post</a></li><li><a class="wp-block-latest-posts__post-title" href="/sbi-junior-associates-clerk-2026/">SBI Junior Associates Clerk Recruitment 2026</a></li><li><a class="wp-block-latest-posts__post-title" href="/bseb-stet-august26/">Bihar State Eligibility Test BSEB STET 2026 Apply Online</a></li><li><a class="wp-block-latest-posts__post-title" href="/uppsc-professor-2026/">UPPSC Professor &amp; Assistant Professor Recruitment 2026</a></li><li><a class="wp-block-latest-posts__post-title" href="/upsssc-pet-exam-jun26/">UP UPSSSC Preliminary Examination Test PET 2026 Apply Online Form 2026</a></li><li><a class="wp-block-latest-posts__post-title" href="/mpesb-group-3-sub-engineer-2026/">MPESB Group 3 Sub Engineer &amp; Other Post Recruitment 2026</a></li><li><a class="wp-block-latest-posts__post-title" href="/upsssc-pet-2026/">UPSSSC PET Online Form 2026</a></li><li><a class="wp-block-latest-posts__post-title" href="/jssc-jilcce-inter-level-july26/">JSSC Jharkhand JILCCE Inter Level Recruitment 2026 Apply Online for 326 Post</a></li></ul>
 <div class="wp-block-buttons is-content-justification-right is-layout-flex wp-container-core-buttons-is-layout-89b4c9e9 wp-block-buttons-is-layout-flex">
 <div class="wp-block-button"><a class="wp-block-button__link has-base-color has-accent-2-background-color has-text-color has-background has-link-color wp-element-button" href="/latest-jobs/" rel="noreferrer noopener" target="_blank"><strong>View More</strong></a></div>
 </div>

diff --git a/original_index.html b/original_index.html
@@ -1078,7 +1078,7 @@ ul.wp-block-latest-posts a:hover {
 </div></div></div>
 <div class="gb-grid-column gb-grid-column-c7488d9a"><div class="gb-container gb-container-c7488d9a"><div class="gb-inside-container">
 <p class="gb-headline gb-headline-5badebdf gb-headline-text">Latest Jobs</p>
-<ul class="wp-block-latest-posts__list 6colm_box wp-block-latest-posts"><li><a class="wp-block-latest-posts__post-title" href="/mpesb-group-2-sub-group-4-patwari-2026/">MPESB Group-2 Sub Group-4 Patwari Recruitment 2026 - <span class="agy-blinking-badge agy-urgent-blink">1 Days Left!</span></a></li><li><a class="wp-block-latest-posts__post-title" href="/rrvunl-je-junior-assistant-2026/">RRVUNL JE, Junior Assistant Recruitment 2026 - <span class="agy-blinking-badge agy-urgent-blink">3 Days Left!</span></a></li><li><a class="wp-block-latest-posts__post-title" href="/rvunl-june26/">Rajasthan RVUNL for JE, Junior Accountant &amp; Junior Assistant/ Commercial Assistant-II Common Recruitment 2026 Apply Online for 2005 Post - <span class="agy-blinking-badge agy-urgent-blink">3 Days Left!</span></a></li><li><a class="wp-block-latest-posts__post-title" href="/sbi-clerk-backlog-aug26/">State Bank of India SBI Junior Associates Clerk Recruitment 2026 : Apply Online for 1538 Backlog Post</a></li><li><a class="wp-block-latest-posts__post-title" href="/patna-high-court-july26/">Patan High Court Judicature Ex-Cadre Assistant Group C Recruitment 2026 Apply Online for 68 Post</a></li><li><a class="wp-block-latest-posts__post-title" href="/sbi-junior-associates-clerk-2026/">SBI Junior Associates Clerk Recruitment 2026</a></li><li><a class="wp-block-latest-posts__post-title" href="/bseb-stet-august26/">Bihar State Eligibility Test BSEB STET 2026 Apply Online</a></li><li><a class="wp-block-latest-posts__post-title" href="/upsssc-pet-exam-jun26/">UP UPSSSC Preliminary Examination Test PET 2026 Apply Online Form 2026</a></li><li><a class="wp-block-latest-posts__post-title" href="/uppsc-professor-2026/">UPPSC Professor &amp; Assistant Professor Recruitment 2026</a></li><li><a class="wp-block-latest-posts__post-title" href="/mpesb-group-3-sub-engineer-2026/">MPESB Group 3 Sub Engineer &amp; Other Post Recruitment 2026</a></li><li><a class="wp-block-latest-posts__post-title" href="/upsssc-pet-2026/">UPSSSC PET Online Form 2026</a></li><li><a class="wp-block-latest-posts__post-title" href="/jssc-jilcce-inter-level-july26/">JSSC Jharkhand JILCCE Inter Level Recruitment 2026 Apply Online for 326 Post</a></li></ul>
+<ul class="wp-block-latest-posts__list 6colm_box wp-block-latest-posts"><li><a class="wp-block-latest-posts__post-title" href="/mpesb-group-2-sub-group-4-patwari-2026/">MPESB Group-2 Sub Group-4 Patwari Recruitment 2026 - <span class="agy-blinking-badge agy-urgent-blink">1 Days Left!</span></a></li><li><a class="wp-block-latest-posts__post-title" href="/rrvunl-je-junior-assistant-2026/">RRVUNL JE, Junior Assistant Recruitment 2026 - <span class="agy-blinking-badge agy-urgent-blink">3 Days Left!</span></a></li><li><a class="wp-block-latest-posts__post-title" href="/rvunl-june26/">Rajasthan RVUNL for JE, Junior Accountant &amp; Junior Assistant/ Commercial Assistant-II Common Recruitment 2026 Apply Online for 2005 Post - <span class="agy-blinking-badge agy-urgent-blink">3 Days Left!</span></a></li><li><a class="wp-block-latest-posts__post-title" href="/sbi-clerk-backlog-aug26/">State Bank of India SBI Junior Associates Clerk Recruitment 2026 : Apply Online for 1538 Backlog Post</a></li><li><a class="wp-block-latest-posts__post-title" href="/patna-high-court-july26/">Patan High Court Judicature Ex-Cadre Assistant Group C Recruitment 2026 Apply Online for 68 Post</a></li><li><a class="wp-block-latest-posts__post-title" href="/sbi-junior-associates-clerk-2026/">SBI Junior Associates Clerk Recruitment 2026</a></li><li><a class="wp-block-latest-posts__post-title" href="/bseb-stet-august26/">Bihar State Eligibility Test BSEB STET 2026 Apply Online</a></li><li><a class="wp-block-latest-posts__post-title" href="/uppsc-professor-2026/">UPPSC Professor &amp; Assistant Professor Recruitment 2026</a></li><li><a class="wp-block-latest-posts__post-title" href="/upsssc-pet-exam-jun26/">UP UPSSSC Preliminary Examination Test PET 2026 Apply Online Form 2026</a></li><li><a class="wp-block-latest-posts__post-title" href="/mpesb-group-3-sub-engineer-2026/">MPESB Group 3 Sub Engineer &amp; Other Post Recruitment 2026</a></li><li><a class="wp-block-latest-posts__post-title" href="/upsssc-pet-2026/">UPSSSC PET Online Form 2026</a></li><li><a class="wp-block-latest-posts__post-title" href="/jssc-jilcce-inter-level-july26/">JSSC Jharkhand JILCCE Inter Level Recruitment 2026 Apply Online for 326 Post</a></li></ul>
 <div class="wp-block-buttons is-content-justification-right is-layout-flex wp-container-core-buttons-is-layout-89b4c9e9 wp-block-buttons-is-layout-flex">
 <div class="wp-block-button"><a class="wp-block-button__link has-base-color has-accent-2-background-color has-text-color has-background has-link-color wp-element-button" href="/latest-jobs/" rel="noreferrer noopener" target="_blank"><strong>View More</strong></a></div>
 </div>
